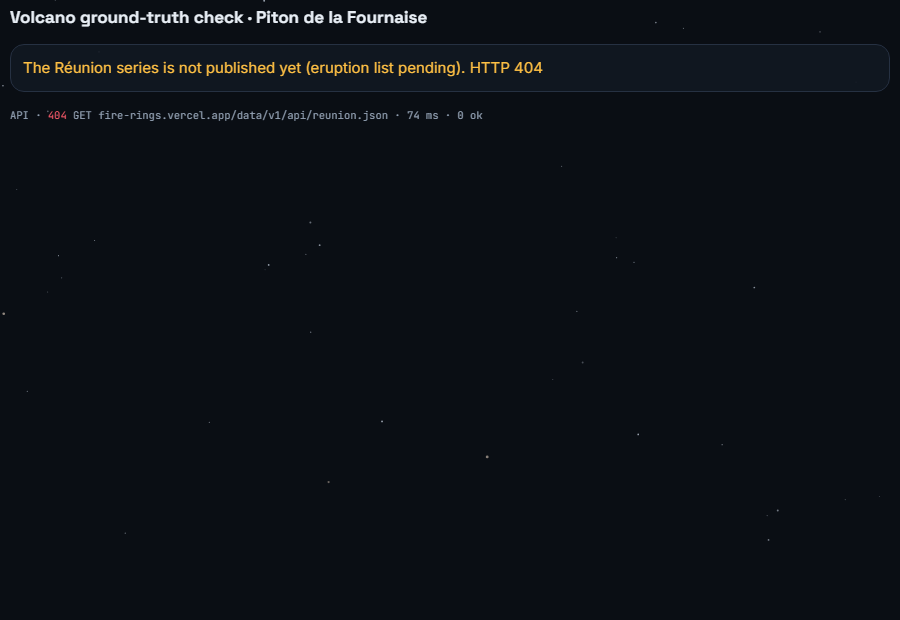
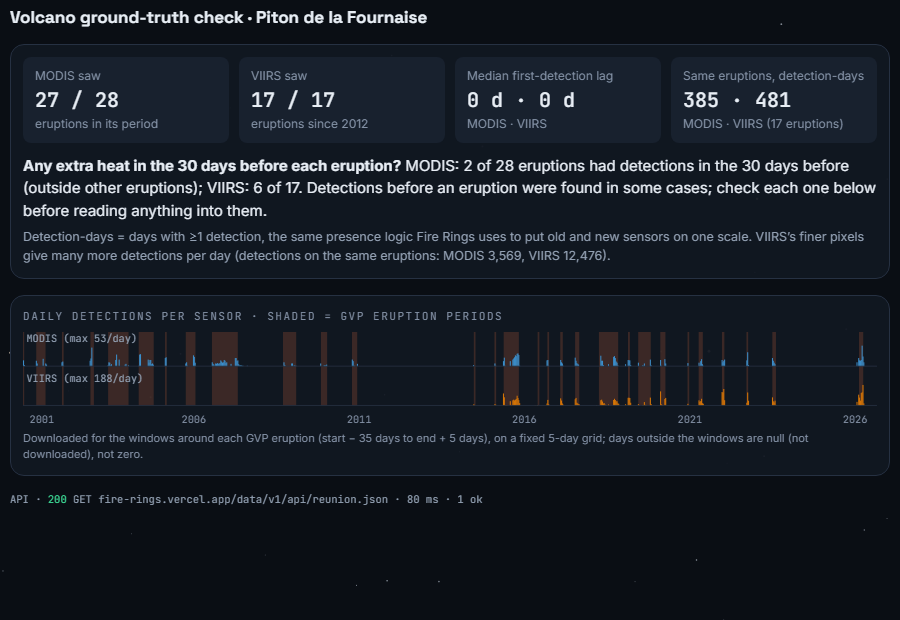
docs: PROGRESS — Summary for Muru, round 3; refreshed control-room fallback screenshots

diff --git a/PROGRESS.md b/PROGRESS.md
@@ -4,12 +4,103 @@ Resume any session with: **"Continue from PROGRESS.md"** (read this file + CLAUD
 Status keys: `todo` · `doing` · `done` · `blocked`
 Live: https://fire-rings.vercel.app (Vercel, root = web, auto-deploys on push to main)
 
-## Round 3 (11 Nov) — running log (P1 main app → P2 companion + control room)
+## Summary for Muru — Round 3 (11 Nov): main app P1 + companion apps + control room
+
+**In one line:** everything in the brief is done and pushed. The long-term (harmonized) numbers did not change: the snapshot test is green. The companion site is live at **https://fire-rings-apps.vercel.app**: it deployed on the first push, so the /apps/ fallback wasn't needed.
+
+**Done, by item**
+- **P1.1 Date range.** On Explore, pick From/To months (the link keeps them: `?from=2019-07&to=2020-03`). The summary card shows:
+  - total fire-days
+  - typical for the same months
+  - busiest month
+  - rank among the same months in other years (up to 12 months)
+  - Months outside the range fade on the rings, calendar and annual bars, and CSV/PNG cover only the range. It works in Long-term and High detail and with a box. Black Summer, Jul 2019–Mar 2020, ranks 1st of 23.
+- **P1.2 Hotspot CSV for any search.** `/api/hotspots` gets NASA FIRMS data for up to 31 days and applies the same filters as the record.
+  - Download buttons: in the month drawer for any month, and on the range card for a single month.
+  - The same request is cached and never calls NASA twice. Each address gets a fixed number of downloads, and when NASA is busy the page shows a calm message.
+  - Demo months are static files: Punjab Oct 2016, SE Australia Dec 2019, Madagascar Sep 2019.
+  - Checked against the record: 48,666 vs 48,595 detections (0.15%).
+- **P1.3 Map dots for any month.** Zoom in (level 9+) and the ▲ VIIRS / ● MODIS dots load from the API, or from the static files for demo months.
+- **P1.4 Fixes.**
+  - #72 Briefings state facts and caveats only: a new check rejects opinion or advice, and the saved briefings were regenerated.
+  - #73 Numbers inside AI text read "15,346"; years are never written as "2,015".
+  - #74 The trace shows each line once (×N), briefings run in parallel, and the saved-briefing fallback says why it was used.
+  - #75 The status badge names the month, e.g. "Unusually low (Nov so far, Oct)".
+- **P1.5 Globe.**
+  - Dark / Night lights / Day switcher using NASA GIBS imagery, remembered per visitor.
+  - Default stays **Dark**, because city lights could look like fire. Night lights are shown in grey.
+  - Atmosphere glow added.
+  - The play panel now sits under the globe and the zoom is fitted to the space, so they never overlap at 1280–1920 px (e2e check).
+- **P1.6 Star background.** Subtle twinkling, paused when the tab is hidden, a still frame when reduced motion is on, and always behind the cards.
+- **P1.7 Open API.**
+  - CORS is open on `/data/v1/*`, `/api/hotspots`, `/api/live` and `/api/health?scope=data`; `/api/ask` stays same-origin.
+  - New files:
+    - `api/series` (raw vs harmonized)
+    - `api/projection` (tested "what to expect")
+    - `api/power` (NASA POWER rain and temperature)
+    - `api/reunion` (volcano check)
+    - `api/index.json`
+  - The Data page lists every endpoint with an example call.
+- **P1.8 Paper + slides.**
+  - `/paper` and `/slides`: every number is filled live from the JSON, and a missing one shows as ⟨missing⟩, which the tests catch.
+  - The figures are the app's real charts.
+  - The slides support ←/→, F (fullscreen) and N (presenter notes), plus a QR code.
+  - PDFs are in `web/public/`; run `npm run pdf` after editing.
+  - Edit the text in `web/content/paper.md` and `slides.md`. Point the buttons at your own PDFs in `web/content/links.json`.
+- **P2.1 Companion "Fire Rings Apps"** (repo `Muru265/fire-rings-apps`). Six apps that only call the Fire Rings API and public NASA services:
+  - each page has an API inspector, an `?embed=1` mode that posts its last call time to the control room, and the star background
+  - framing is allowed only for fire-rings.vercel.app (plus localhost)
+  - Playwright tests: every page in normal and embed mode, at 360 px.
+- **P2.2 Use Cases control room** (`/use-cases`, now in the nav). Six live windows labelled "CAM n · ● LIVE · last call time ✓", with expand and open-full-app buttons. A screenshot shows if a window can't load, and phones get a list of cards. Guide entry added.
+- **Volcano check: Piton de la Fournaise.** Eruption dates come from the **Smithsonian Global Volcanism Program** (30 eruption periods since 2000, each linked).
+  - MODIS saw **27 of 28** eruptions in its period; it missed the one-day May 2016 event.
+  - VIIRS saw **17 of 17**.
+  - Median first-detection lag: 0 days.
+  - Heat in the 30 days before an eruption: 2 of 28 (MODIS) and 6 of 17 (VIIRS), stated as found, not as a warning signal.
+  - The result is on the Proof card, in the paper and slides, and in companion app 5.
+
+**Skipped or changed, and why**
+- **No persistent hotspot cache.** Vercel KV/Blob isn't connected, so the cache lives in memory per warm instance plus the CDN.
+- **Réunion covers only the windows around each eruption** (start −35 days to end +5 days), not all 26 years. One FIRMS call costs about 15 transactions; my first full download hit the key's 5,000/10 min limit for a few minutes, and the live layer may have answered "busy" during that time. Days outside the windows are blank, never zero.
+- **FIRMS allows at most 5 days per call** (not 10), so a 31-day download takes 7 calls per satellite.
+- **No 0.7 km² Mauritius hexagons.** Mauritius already shows every detection as a dot.
+- **Default globe is Dark**, not Night lights (see P1.5).
+
+**Numbers that changed (before → after)**
+- Long-term H, lo and hi: **unchanged**.
+- Fire Watch statuses: unchanged. The saved briefings' wording changed (facts only); their numbers are the same.
+- Tests:
+  - pytest 74 → 92
+  - claims_check 159 → 184
+  - e2e 39 → 53
+  - new: hotspot tests (incl. the parity check) and companion tests
+
+**Muru to do**
+1. Optional: connect Vercel KV or Blob if you want the hotspot cache to survive restarts.
+2. Read the paper and slides drafts. Edit `web/content/*.md`, then run `npm run pdf` and commit.
+3. If you edit the companion, its tests run with `npm test` in `fire-rings-apps`.
+
+**What to check first**
+1. `/use-cases`: six windows go ● LIVE with a last-call time; click one, Expand, then "Open full app ↗".
+2. https://fire-rings-apps.vercel.app/volcano: the eruption table with GVP links, and 27/28 · 17/17.
+3. `/r/se_australia?from=2019-07&to=2020-03`: the range card says 1st of 23; download the CSV and check it starts Jul 2019.
+4. `/r/punjab`: click Oct 2016 → "Download this month's hotspots (CSV)" (demo file); then zoom the map in to see the dots.
+5. Any other month's hotspot download, on production (live NASA call): if NASA is busy, the calm message should appear.
+6. `/watch`: badges read "Unusually low (Nov so far, Oct)", and the briefings contain no advice.
+7. Home: switch the globe between Dark, Night lights and Day; the globe never sits under the play panel.
+8. `/paper` and `/slides` (press N for notes), plus both "Download PDF" buttons.
+9. `/data` → Open API table: try a few example links.
+10. Companion app 1 "What to expect" for Punjab, and app 3's insurance slider (raw-only payouts after 2012).
+11. Phone (360 px): the home globe is visible, and `/use-cases` shows the card list.
+12. `/proof` → "Ground-truth test: Piton de la Fournaise" card.
+
+## Round 3 (11 Nov) — running log
+- **P1.5, P1.6, P1.8, P2.1 (live), P2.2, Réunion: done** — details in the summary above. (P1 main app → P2 companion + control room)
 - **P1.1 ✅ date range** on Explore: From/To months (URL `?from=YYYY-MM&to=YYYY-MM`), summary card (total, typical = sum of monthly medians, busiest month, rank among the same months in other complete years when ≤12 months), range highlighted on rings/calendar/annual bars, CSV/PNG limited to the range, Guide entry, e2e. Black Summer Jul 2019–Mar 2020 ranks 1st of 23.
 - **P1.2 ✅ `/api/hotspots`**: FIRMS Area API (SP where processed, NRT after; MODIS + VIIRS as in the record, `satellites=all` adds NOAA-20/21), the record's filters, ≤31 days. Decision: FIRMS now allows **≤5 days per call** (API answered "Expects [1..5]"), so 31 days = 7 calls per source. Cache: in-memory per warm instance + CDN `s-maxage` (7 days for SP-only ranges, 30 min with NRT); Vercel KV/Blob is not connected (needs Muru's account) so no persistent cache. Per-IP 30 uncached/10 min, ≤300 FIRMS calls/10 min/instance, calm 503 "busy" message. Demo months are static files made from the record (Punjab Oct 2016, SE Australia Dec 2019, Madagascar Sep 2019). Parity vs record, Punjab Oct 2016: 48,666 vs 48,595 detections (0.15%). Production checked: miss → hit, 307 for demo months, CORS.
 - **P1.3 ✅ map dots** for any month at zoom ≥9 (visible 0.5° tiles, cached), demo months static. Res-8 Mauritius hexes skipped (Mauritius already shows every detection as a dot).
 - **P1.4 ✅** #72 opinion/advice rejection (briefings regenerated: no "ease strain…", no "planning agency responses"); #73 numbers in AI text formatted (years never); #74 trace lines shown once with ×N, region names on status lines, briefings in parallel, labelled fallback with reason; #75 badge "Unusually low (Nov so far, Oct)".
-- **P1.7 ✅ (Réunion pending)** CORS on `/data/v1/*` + `/api/hotspots|live|health`; `api/series`, `api/projection` (backtest), `api/power` (NASA POWER, 9 points/region), `api/index.json`; Data page lists every endpoint.
+- **P1.7 ✅** CORS on `/data/v1/*` + `/api/hotspots|live|health`; `api/series`, `api/projection` (backtest), `api/power` (NASA POWER, 9 points/region), `api/index.json`; Data page lists every endpoint.
   - ⚠ **FIRMS budget incident**: one Area-API call costs ~15 transactions. The first full Réunion download hit the 5,000/10 min key limit for a few minutes (the live layer/hotspots would have answered "busy" meanwhile). Decision: Réunion downloads only the windows around each GVP eruption (start −35 d → end +5 d), one call every 6 s (~30% of the budget).
   - Eruption dates: **Smithsonian GVP** VOTW Holocene eruptions (volcano 233020), 30 eruption periods since 2000, each with its source link.
 
